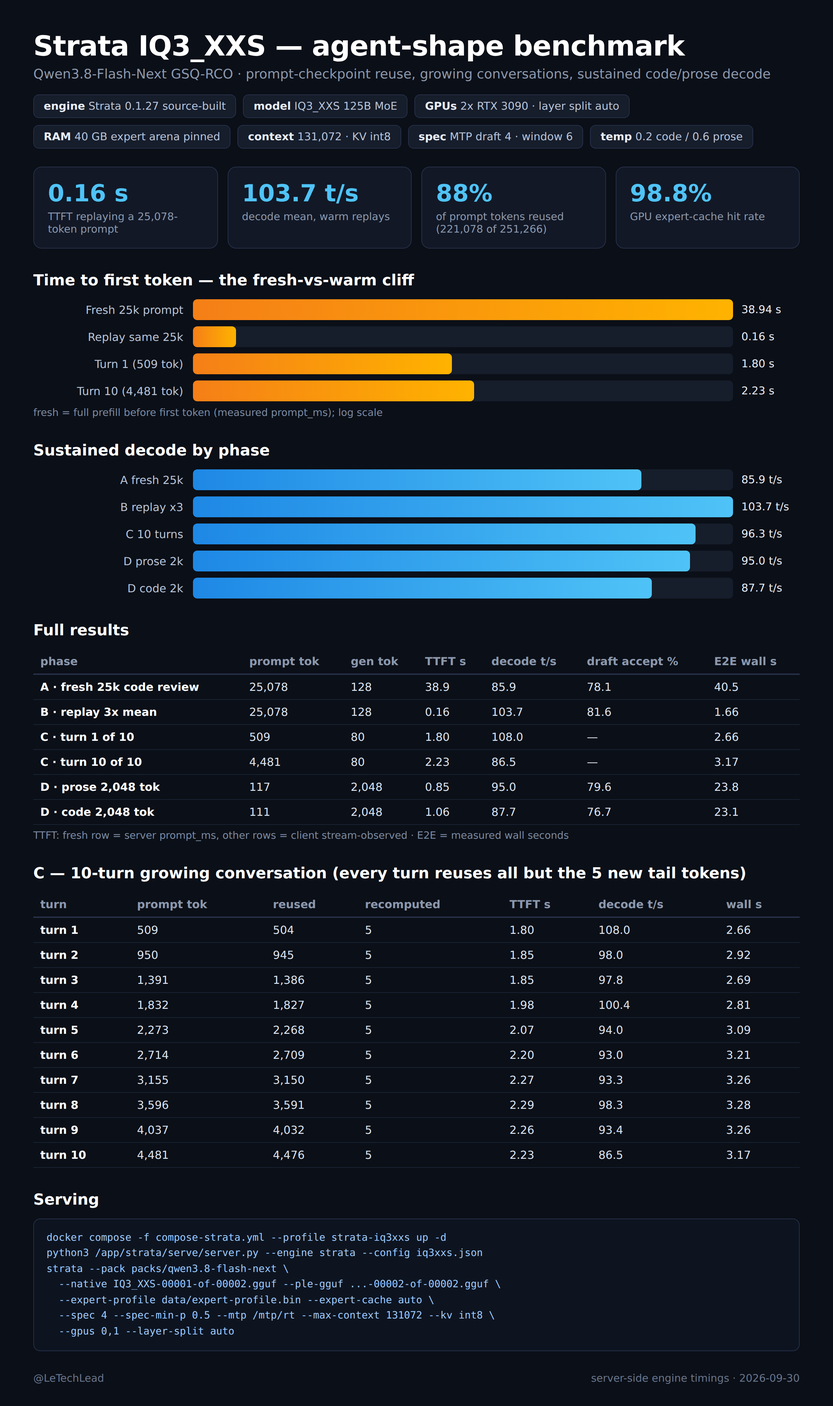
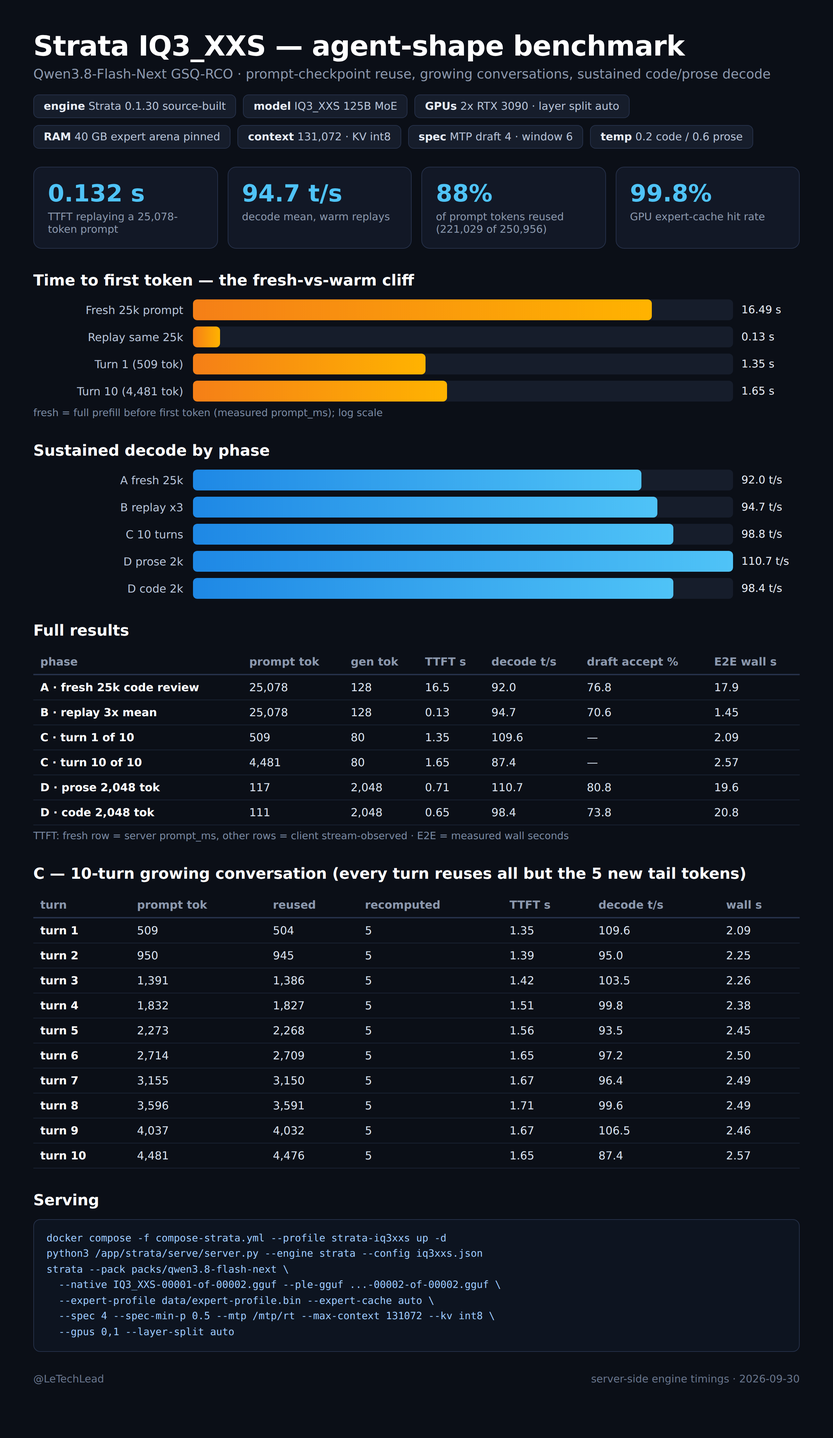
Strata v0.1.30: re-pinned source build, re-measured both benchmarks
- fetch-strata.sh pinned to tag v0.1.30 (commit 30ec18e), sha256 verified
- llama.cpp pin unchanged upstream (3cf03257): pack, config keys, and engine
  flags are identical across 0.1.27 -> 0.1.30, so existing data/ carries over
- context ladder re-measured on v0.1.30 (benchy 0.3.5, pp4096/tg512, 3 runs,
  depths 8192/32768/65536/126208): prefill now rises 1084->1996 t/s with depth
  (was flat ~660 on 0.1.27); TTFT at 126k 65.3 s vs 192.1 s
- agent-shape card regenerated from fresh v0.1.30 run (clean session totals):
  warm-replay TTFT 0.132 s, fresh 25k prefill 16.5 s, expert hit 99.8%
- README: both benchmark sections, hardware floor numbers from live /metrics

Changed region(s): [[0.0312, 0.0311, 0.9375, 0.84], [0.0312, 0.8089, 0.5938, 0.9644]]

diff --git a/benchmark/agent-shape-card.html b/benchmark/agent-shape-card.html
@@ -28,34 +28,34 @@ code{display:block;background:#0d1420;border:1px solid #26314a;border-radius:10p
 </style></head><body><div class="wrap">
 <h1>Strata IQ3_XXS — agent-shape benchmark</h1>
 <div class="sub">Qwen3.8-Flash-Next GSQ-RCO · prompt-checkpoint reuse, growing conversations, sustained code/prose decode</div>
-<div class="chips"><span class="chip"><b>engine</b> Strata 0.1.27 source-built</span><span class="chip"><b>model</b> IQ3_XXS 125B MoE</span><span class="chip"><b>GPUs</b> 2x RTX 3090 · layer split auto</span><span class="chip"><b>RAM</b> 40 GB expert arena pinned</span><span class="chip"><b>context</b> 131,072 · KV int8</span><span class="chip"><b>spec</b> MTP draft 4 · window 6</span><span class="chip"><b>temp</b> 0.2 code / 0.6 prose</span></div>
+<div class="chips"><span class="chip"><b>engine</b> Strata 0.1.30 source-built</span><span class="chip"><b>model</b> IQ3_XXS 125B MoE</span><span class="chip"><b>GPUs</b> 2x RTX 3090 · layer split auto</span><span class="chip"><b>RAM</b> 40 GB expert arena pinned</span><span class="chip"><b>context</b> 131,072 · KV int8</span><span class="chip"><b>spec</b> MTP draft 4 · window 6</span><span class="chip"><b>temp</b> 0.2 code / 0.6 prose</span></div>
 <div class="tiles">
-<div class="tile"><div class="v">0.16 s</div><div class="k">TTFT replaying a 25,078-token prompt</div></div>
-<div class="tile"><div class="v">103.7 t/s</div><div class="k">decode mean, warm replays</div></div>
-<div class="tile"><div class="v">88%</div><div class="k">of prompt tokens reused (221,078 of 251,266)</div></div>
-<div class="tile"><div class="v">98.8%</div><div class="k">GPU expert-cache hit rate</div></div></div>
+<div class="tile"><div class="v">0.132 s</div><div class="k">TTFT replaying a 25,078-token prompt</div></div>
+<div class="tile"><div class="v">94.7 t/s</div><div class="k">decode mean, warm replays</div></div>
+<div class="tile"><div class="v">88%</div><div class="k">of prompt tokens reused (221,029 of 250,956)</div></div>
+<div class="tile"><div class="v">99.8%</div><div class="k">GPU expert-cache hit rate</div></div></div>
 
 <h2>Time to first token — the fresh-vs-warm cliff</h2>
-<div class="hrow"><div class="hlab">Fresh 25k prompt</div><div class="htrack"><div class="hbar t" style="width:100%"></div></div><div class="hval">38.94 s</div></div><div class="hrow"><div class="hlab">Replay same 25k</div><div class="htrack"><div class="hbar t" style="width:8%"></div></div><div class="hval">0.16 s</div></div><div class="hrow"><div class="hlab">Turn 1 (509 tok)</div><div class="htrack"><div class="hbar t" style="width:48%"></div></div><div class="hval">1.80 s</div></div><div class="hrow"><div class="hlab">Turn 10 (4,481 tok)</div><div class="htrack"><div class="hbar t" style="width:52%"></div></div><div class="hval">2.23 s</div></div>
+<div class="hrow"><div class="hlab">Fresh 25k prompt</div><div class="htrack"><div class="hbar t" style="width:85%"></div></div><div class="hval">16.49 s</div></div><div class="hrow"><div class="hlab">Replay same 25k</div><div class="htrack"><div class="hbar t" style="width:5%"></div></div><div class="hval">0.13 s</div></div><div class="hrow"><div class="hlab">Turn 1 (509 tok)</div><div class="htrack"><div class="hbar t" style="width:43%"></div></div><div class="hval">1.35 s</div></div><div class="hrow"><div class="hlab">Turn 10 (4,481 tok)</div><div class="htrack"><div class="hbar t" style="width:47%"></div></div><div class="hval">1.65 s</div></div>
 <div class="note">fresh = full prefill before first token (measured prompt_ms); log scale</div>
 
 <h2>Sustained decode by phase</h2>
-<div class="hrow"><div class="hlab">A fresh 25k</div><div class="htrack"><div class="hbar" style="width:83%"></div></div><div class="hval">85.9 t/s</div></div><div class="hrow"><div class="hlab">B replay x3</div><div class="htrack"><div class="hbar" style="width:100%"></div></div><div class="hval">103.7 t/s</div></div><div class="hrow"><div class="hlab">C 10 turns</div><div class="htrack"><div class="hbar" style="width:93%"></div></div><div class="hval">96.3 t/s</div></div><div class="hrow"><div class="hlab">D prose 2k</div><div class="htrack"><div class="hbar" style="width:92%"></div></div><div class="hval">95.0 t/s</div></div><div class="hrow"><div class="hlab">D code 2k</div><div class="htrack"><div class="hbar" style="width:85%"></div></div><div class="hval">87.7 t/s</div></div>
+<div class="hrow"><div class="hlab">A fresh 25k</div><div class="htrack"><div class="hbar" style="width:83%"></div></div><div class="hval">92.0 t/s</div></div><div class="hrow"><div class="hlab">B replay x3</div><div class="htrack"><div class="hbar" style="width:86%"></div></div><div class="hval">94.7 t/s</div></div><div class="hrow"><div class="hlab">C 10 turns</div><div class="htrack"><div class="hbar" style="width:89%"></div></div><div class="hval">98.8 t/s</div></div><div class="hrow"><div class="hlab">D prose 2k</div><div class="htrack"><div class="hbar" style="width:100%"></div></div><div class="hval">110.7 t/s</div></div><div class="hrow"><div class="hlab">D code 2k</div><div class="htrack"><div class="hbar" style="width:89%"></div></div><div class="hval">98.4 t/s</div></div>
 
 <h2>Full results</h2>
 <table><tr><th>phase</th><th>prompt tok</th><th>gen tok</th><th>TTFT s</th><th>decode t/s</th><th>draft accept %</th><th>E2E wall s</th></tr>
-<tr><td>A · fresh 25k code review</td><td>25,078</td><td>128</td><td>38.9</td><td>85.9</td><td>78.1</td><td>40.5</td></tr>
-<tr><td>B · replay 3x mean</td><td>25,078</td><td>128</td><td>0.16</td><td>103.7</td><td>81.6</td><td>1.66</td></tr>
-<tr><td>C · turn 1 of 10</td><td>509</td><td>80</td><td>1.80</td><td>108.0</td><td>—</td><td>2.66</td></tr>
-<tr><td>C · turn 10 of 10</td><td>4,481</td><td>80</td><td>2.23</td><td>86.5</td><td>—</td><td>3.17</td></tr>
-<tr><td>D · prose 2,048 tok</td><td>117</td><td>2,048</td><td>0.85</td><td>95.0</td><td>79.6</td><td>23.8</td></tr>
-<tr><td>D · code 2,048 tok</td><td>111</td><td>2,048</td><td>1.06</td><td>87.7</td><td>76.7</td><td>23.1</td></tr>
+<tr><td>A · fresh 25k code review</td><td>25,078</td><td>128</td><td>16.5</td><td>92.0</td><td>76.8</td><td>17.9</td></tr>
+<tr><td>B · replay 3x mean</td><td>25,078</td><td>128</td><td>0.13</td><td>94.7</td><td>70.6</td><td>1.45</td></tr>
+<tr><td>C · turn 1 of 10</td><td>509</td><td>80</td><td>1.35</td><td>109.6</td><td>—</td><td>2.09</td></tr>
+<tr><td>C · turn 10 of 10</td><td>4,481</td><td>80</td><td>1.65</td><td>87.4</td><td>—</td><td>2.57</td></tr>
+<tr><td>D · prose 2,048 tok</td><td>117</td><td>2,048</td><td>0.71</td><td>110.7</td><td>80.8</td><td>19.6</td></tr>
+<tr><td>D · code 2,048 tok</td><td>111</td><td>2,048</td><td>0.65</td><td>98.4</td><td>73.8</td><td>20.8</td></tr>
 </table>
 <div class="note">TTFT: fresh row = server prompt_ms, other rows = client stream-observed · E2E = measured wall seconds</div>
 
 <h2>C — 10-turn growing conversation (every turn reuses all but the 5 new tail tokens)</h2>
 <table><tr><th>turn</th><th>prompt tok</th><th>reused</th><th>recomputed</th><th>TTFT s</th><th>decode t/s</th><th>wall s</th></tr>
-<tr><td>turn 1</td><td>509</td><td>504</td><td>5</td><td>1.80</td><td>108.0</td><td>2.66</td></tr><tr><td>turn 2</td><td>950</td><td>945</td><td>5</td><td>1.85</td><td>98.0</td><td>2.92</td></tr><tr><td>turn 3</td><td>1,391</td><td>1,386</td><td>5</td><td>1.85</td><td>97.8</td><td>2.69</td></tr><tr><td>turn 4</td><td>1,832</td><td>1,827</td><td>5</td><td>1.98</td><td>100.4</td><td>2.81</td></tr><tr><td>turn 5</td><td>2,273</td><td>2,268</td><td>5</td><td>2.07</td><td>94.0</td><td>3.09</td></tr><tr><td>turn 6</td><td>2,714</td><td>2,709</td><td>5</td><td>2.20</td><td>93.0</td><td>3.21</td></tr><tr><td>turn 7</td><td>3,155</td><td>3,150</td><td>5</td><td>2.27</td><td>93.3</td><td>3.26</td></tr><tr><td>turn 8</td><td>3,596</td><td>3,591</td><td>5</td><td>2.29</td><td>98.3</td><td>3.28</td></tr><tr><td>turn 9</td><td>4,037</td><td>4,032</td><td>5</td><td>2.26</td><td>93.4</td><td>3.26</td></tr><tr><td>turn 10</td><td>4,481</td><td>4,476</td><td>5</td><td>2.23</td><td>86.5</td><td>3.17</td></tr></table>
+<tr><td>turn 1</td><td>509</td><td>504</td><td>5</td><td>1.35</td><td>109.6</td><td>2.09</td></tr><tr><td>turn 2</td><td>950</td><td>945</td><td>5</td><td>1.39</td><td>95.0</td><td>2.25</td></tr><tr><td>turn 3</td><td>1,391</td><td>1,386</td><td>5</td><td>1.42</td><td>103.5</td><td>2.26</td></tr><tr><td>turn 4</td><td>1,832</td><td>1,827</td><td>5</td><td>1.51</td><td>99.8</td><td>2.38</td></tr><tr><td>turn 5</td><td>2,273</td><td>2,268</td><td>5</td><td>1.56</td><td>93.5</td><td>2.45</td></tr><tr><td>turn 6</td><td>2,714</td><td>2,709</td><td>5</td><td>1.65</td><td>97.2</td><td>2.50</td></tr><tr><td>turn 7</td><td>3,155</td><td>3,150</td><td>5</td><td>1.67</td><td>96.4</td><td>2.49</td></tr><tr><td>turn 8</td><td>3,596</td><td>3,591</td><td>5</td><td>1.71</td><td>99.6</td><td>2.49</td></tr><tr><td>turn 9</td><td>4,037</td><td>4,032</td><td>5</td><td>1.67</td><td>106.5</td><td>2.46</td></tr><tr><td>turn 10</td><td>4,481</td><td>4,476</td><td>5</td><td>1.65</td><td>87.4</td><td>2.57</td></tr></table>
 
 <h2>Serving</h2>
 <code>docker compose -f compose-strata.yml --profile strata-iq3xxs up -d

diff --git a/benchmark/context-ladder-card.html b/benchmark/context-ladder-card.html
@@ -1,0 +1,65 @@
+<!doctype html><html><head><meta charset="utf-8"><style>
+*{margin:0;padding:0;box-sizing:border-box;font-family:'Segoe UI',system-ui,sans-serif}
+body{width:1200px;background:#0b0f17;color:#e8edf6}
+.wrap{padding:44px 48px 36px}
+h1{font-size:40px;font-weight:800;letter-spacing:-.5px;color:#fff}
+.sub{font-size:19px;color:#8b98ad;margin-top:6px}
+.chips{display:flex;flex-wrap:wrap;gap:10px;margin-top:18px}
+.chip{font-size:15.5px;padding:7px 14px;border-radius:8px;background:#161d2b;border:1px solid #26314a;color:#b8c4d9}
+.chip b{color:#e8edf6;font-weight:600}
+.tiles{display:flex;gap:14px;margin-top:26px}
+.tile{flex:1;background:#121826;border:1px solid #26314a;border-radius:12px;padding:18px 20px}
+.tile .v{font-size:34px;font-weight:800;color:#4fc3f7}
+.tile .k{font-size:15px;color:#8b98ad;margin-top:4px}
+h2{font-size:22px;color:#fff;margin:34px 0 14px;font-weight:700}
+.hrow{display:flex;align-items:center;margin:9px 0}
+.hlab{width:230px;font-size:16px;color:#b8c4d9;text-align:right;padding-right:14px}
+.htrack{flex:1;background:#161d2b;border-radius:6px;height:30px;position:relative;overflow:hidden}
+.hbar{height:100%;border-radius:6px;background:linear-gradient(90deg,#1e88e5,#4fc3f7)}
+.hbar.t{background:linear-gradient(90deg,#f57f17,#ffb300)}
+.hval{width:96px;flex:none;text-align:left;font-size:15.5px;color:#e8edf6;padding-left:12px;line-height:30px}
+table{width:100%;border-collapse:collapse;margin-top:10px;font-size:16px}
+th{text-align:left;color:#8b98ad;font-weight:600;padding:8px 10px;border-bottom:2px solid #26314a}
+td{padding:8px 10px;border-bottom:1px solid #1a2334;color:#dbe3f0}
+td:first-child{color:#fff;font-weight:600}
+code{display:block;background:#0d1420;border:1px solid #26314a;border-radius:10px;padding:16px 18px;font:14.5px/1.55 Consolas,monospace;color:#9ecbff;white-space:pre;overflow-x:auto}
+.foot{margin-top:30px;font-size:15px;color:#68758c;display:flex;justify-content:space-between}
+.note{font-size:14.5px;color:#7a8aa3;margin-top:8px}
+</style></head><body><div class="wrap">
+<h1>Qwen3.8-Flash-Next IQ3_XXS — context ladder</h1>
+<div class="sub">llama-benchy · pp 4,096 / tg 512 · 3 runs per depth · unique requests, cache off</div>
+<div class="chips"><span class="chip"><b>engine</b> Strata 0.1.30</span><span class="chip"><b>model</b> Qwen3.8-Flash-Next GSQ-RCO IQ3_XXS · 125B MoE</span><span class="chip"><b>GPUs</b> 2x RTX 3090 · layer split auto</span><span class="chip"><b>context</b> 131,072</span><span class="chip"><b>KV</b> int8</span><span class="chip"><b>spec</b> MTP draft 4 · min-p 0.5</span><span class="chip"><b>tokenizer</b> Qwen3.8-Flash-Next</span></div>
+<div class="tiles">
+<div class="tile"><div class="v" style="font-size:29px">1084→1996 t/s</div><div class="k">prefill rate, 8,192–126,208 tok</div></div>
+<div class="tile"><div class="v">+84.2%</div><div class="k">prefill change across the full 15x depth range</div></div>
+<div class="tile"><div class="v">97.7 t/s</div><div class="k">decode at 8,192 tok depth</div></div>
+<div class="tile"><div class="v">86.1 t/s</div><div class="k">decode at 126,208 tok depth</div></div></div>
+
+<h2>Prefill — prompt-processing rate by depth</h2>
+<div class="hrow"><div class="hlab">8,192 tok</div><div class="htrack"><div class="hbar" style="width:54.3%"></div></div><div class="hval">1084 t/s</div></div><div class="hrow"><div class="hlab">32,768 tok</div><div class="htrack"><div class="hbar" style="width:82.3%"></div></div><div class="hval">1643 t/s</div></div><div class="hrow"><div class="hlab">65,536 tok</div><div class="htrack"><div class="hbar" style="width:95.6%"></div></div><div class="hval">1909 t/s</div></div><div class="hrow"><div class="hlab">126,208 tok</div><div class="htrack"><div class="hbar" style="width:100.0%"></div></div><div class="hval">1996 t/s</div></div>
+<div class="note">prefill rate = (depth + 4,096) ÷ total prefill time — all context present at first token</div>
+
+<h2>Decode — generation rate by depth</h2>
+<div class="hrow"><div class="hlab">8,192 tok</div><div class="htrack"><div class="hbar t" style="width:100.0%"></div></div><div class="hval">97.7 t/s</div></div><div class="hrow"><div class="hlab">32,768 tok</div><div class="htrack"><div class="hbar t" style="width:99.2%"></div></div><div class="hval">96.9 t/s</div></div><div class="hrow"><div class="hlab">65,536 tok</div><div class="htrack"><div class="hbar t" style="width:94.2%"></div></div><div class="hval">92.0 t/s</div></div><div class="hrow"><div class="hlab">126,208 tok</div><div class="htrack"><div class="hbar t" style="width:88.2%"></div></div><div class="hval">86.1 t/s</div></div>
+<div class="note">mean of 3 runs · tg 512 tokens per run</div>
+
+<h2>Full results</h2>
+<table><tr><th>depth (tok)</th><th>prefill t/s</th><th>decode t/s</th><th>peak decode t/s</th><th>TTFT (s)</th><th>E2E (s)</th></tr>
+<tr><td>8,192</td><td>1084 ± 13</td><td>97.7 ± 6.7</td><td>133.7 ± 10.5</td><td>11.34</td><td>16.58</td></tr><tr><td>32,768</td><td>1643 ± 10</td><td>96.9 ± 2.5</td><td>118.3 ± 12.3</td><td>22.44</td><td>27.72</td></tr><tr><td>65,536</td><td>1909 ± 5</td><td>92.0 ± 2.2</td><td>113.7 ± 3.8</td><td>36.47</td><td>42.04</td></tr><tr><td>126,208</td><td>1996 ± 6</td><td>86.1 ± 4.0</td><td>108.0 ± 2.8</td><td>65.28</td><td>71.23</td></tr></table>
+<div class="note">TTFT = full prefill wall time · E2E = TTFT + 512 ÷ decode rate (derived)</div>
+
+<h2>Serving &amp; run</h2>
+<code>strata:0.1.30 · server.py --engine strata --config iq3xxs.json
+strata --pack packs/qwen3.8-flash-next \
+  --native Qwen3.8-Flash-Next-GSQ-RCO-IQ3_XXS-00001-of-00002.gguf \
+  --ple-gguf Qwen3.8-Flash-Next-GSQ-RCO-IQ3_XXS-00002-of-00002.gguf \
+  --expert-profile expert-profile.bin --expert-cache auto --prefill auto \
+  --spec 4 --spec-min-p 0.5 --mtp /mtp/rt \
+  --max-context 131072 --kv int8 --gpu 0,1 --layer-split auto
+
+llama-benchy --base-url &lt;endpoint&gt;/v1 --model qwen3.8-flash-next-iq3xxs \
+  --tokenizer Qwen/Qwen3.8-Flash-Next \
+  --pp 4096 --tg 512 --depth 8192 32768 65536 126208 \
+  --runs 3 --no-cache --skip-coherence</code>
+<div class="foot"><span>@LeTechLead</span><span>llama-benchy 0.3.5 · 3 runs per depth · 2026-09-30</span></div>
+</div></body></html>

diff --git a/README.md b/README.md
@@ -1,6 +1,6 @@
 # Strata running Qwen3.8-Flash-Next IQ3_XXS on 2x RTX 3090 — a containerized recipe
 
-Runs [Strata](https://github.com/Niko1221/Strata) (v0.1.27, MIT) on the 125B MoE
+Runs [Strata](https://github.com/Niko1221/Strata) (v0.1.30, MIT) on the 125B MoE
 `Qwen3.8-Flash-Next-GSQ-RCO-IQ3_XXS` GGUFs from [ISTA-DASLab](https://huggingface.co/ISTA-DASLab/Qwen3.8-Flash-Next-GSQ-RCO-GGUF)
 without ever executing Strata's own installer on your host: the engine is compiled inside Docker from
 the checksum-pinned upstream tag, the model files are fetched with sha256 verification, and the runtime
@@ -20,7 +20,7 @@ source, pack the GGUFs, launch the same two processes — and gives it an image 
   (speculative decode), two-card layer split with a VRAM expert cache, 131,072-token context.
 
 ## Hardware floor (measured, this exact config)
-- 2x RTX 3090 (48 GB VRAM): engine loads dense weights + KV + a 10,860-slot expert cache ≈ 15.8 GB across the pair; VRAM runs near-full (keep your other GPU services off).
+- 2x RTX 3090 (48 GB VRAM): engine loads dense weights + KV + a 21,793-slot expert cache ≈ 35 GiB across the pair; VRAM runs near-full (~0.5 GB free — keep your other GPU services off).
 - ~62 GB system RAM: the 512-expert MoE arena (~40 GB) is pinned; the 28.8 GB n-gram table streams from SSD. With a serving stack resident, budget nothing else: it fits only when the box is mostly free (Strata's own docs call IQ3_XXS a "64 GB PC" size).
 - ~80 GB free disk for shards + pack + MTP (shard 2 is shared across all GSQ-RCO sizes — link it, don't refetch).
 - NVIDIA driver ≥ 580 (CUDA 13 runtime).
@@ -28,8 +28,8 @@ source, pack the GGUFs, launch the same two processes — and gives it an image 
 ## Steps
 ```bash
 # 0. build the engine image (fetches llama.cpp 3cf03257, verifies sha256)
-./scripts/fetch-strata.sh                       # repo @ tag v0.1.27 -> ./strata-src/
-docker build -t strata:0.1.27 .                 # ~15 min on a 12-core box
+./scripts/fetch-strata.sh                       # repo @ tag v0.1.30 -> ./strata-src/
+docker build -t strata:0.1.30 .                 # ~15 min on a 12-core box
 
 # 1. model weights (resumable, sha256-verified against HuggingFace LFS oids)
 ./scripts/fetch-model.sh ./models
@@ -45,24 +45,45 @@ docker compose up -d                               # healthcheck on /health
 Clients (any OpenAI SDK): base URL `http://<host>:8080/v1`, model name `qwen3.8-flash-next-iq3xxs`.
 Anthropic-style clients: `http://<host>:8080/v1/messages`.
 
-## Benchmark: agent-shape results (`benchmark/`)
+## Benchmark 1: context ladder (`benchmark/context-ladder.png`)
+
+llama-benchy 0.3.5 · pp 4,096 / tg 512 · 3 runs per depth · unique requests (`--no-cache`) ·
+depths 8,192 / 32,768 / 65,536 / 126,208 (near-max: 131,072 − 4,096 − 512 − margin) ·
+tokenizer `Qwen/Qwen3.8-Flash-Next` · prefill rate = (depth + 4,096) ÷ full-prefill wall time.
+
+| depth | prefill t/s | decode t/s | peak decode | TTFT | E2E (est.) |
+|---|---|---|---|---|---|
+| 8,192 | 1,084 ± 13 | 97.7 ± 6.7 | 133.7 | 11.34 s | 16.58 s |
+| 32,768 | 1,643 ± 10 | 96.9 ± 2.5 | 118.3 | 22.44 s | 27.72 s |
+| 65,536 | 1,909 ± 5 | 92.0 ± 2.2 | 113.7 | 36.47 s | 42.04 s |
+| 126,208 | 1,996 ± 6 | 86.1 ± 4.0 | 108.0 | 65.28 s | 71.23 s |
+
+Raw benchy tables for both engine versions measured on this box:
+`context-ladder-0.1.30.md` (above) and `context-ladder-0.1.27.md` — identical protocol, same pack.
+0.1.27 was flat ~660–678 t/s at every depth; 0.1.30's 1024-token expert-streaming prefill made deep
+prefill 2.4–3x faster (TTFT at 126k: 192 s → 65 s) and decode +2–10%. If you are upgrading from a
+0.1.27 pack: the pack format (`native experts v3`), the serve config keys, and the engine flags below
+are unchanged — rebuild the image, reuse `data/`.
+
+## Benchmark 2: agent-shape results (`benchmark/`)
 
 ![Strata IQ3_XXS agent-shape benchmark — TTFT cliff, decode by phase, full results table](benchmark/strata-agentbench.png)
 
 `agent-shape-card.html` is the editable source of the PNG above; raw per-request JSON is the artifact behind it.
-Measured on server-side engine timings (not client estimates), the numbers that matter for coding agents:
+Measured on v0.1.30 with server-side engine timings (not client estimates), the numbers that matter for coding agents:
 
 | scenario | result |
 |---|---|
-| cold 25,078-token prompt prefill | 38.9 s (~644 t/s) — falls hard with depth |
-| same prompt replayed (checkpoint warm) | **0.16 s TTFT** — only 5 new tokens recompute |
-| warm decode | 100-107 t/s; cold-window decode 85-96 t/s |
-| MTP accept | prose 79.6% / code 76.7% (drafts up to 4) |
-| 10-turn growing conversation | every turn reused all-but-5 tokens; TTFT 1.8→2.2 s |
-| session-wide | 88% of prompt tokens reused; expert-cache hit 98.8% |
+| cold 25,078-token prompt prefill | 16.5 s (~1,521 t/s) |
+| same prompt replayed (checkpoint warm) | **0.13 s TTFT** — only 5 new tokens recompute |
+| warm decode | 94–99 t/s; sustained prose up to 110.7 t/s |
+| MTP accept | prose 80.8% / code 73.8% (drafts up to 4) |
+| 10-turn growing conversation | every turn reused all-but-5 tokens; TTFT 1.35→1.65 s |
+| session-wide | 88% of prompt tokens reused; expert-cache hit 99.8% |
 
-The cliff is real: first turn on a new 25k context costs ~40 s; every turn that keeps its prefix costs
-~0.16 s. Agents that reuse sessions feel this engine; agents that re-dump context pay for it every time.
+The cliff is still real but much shallower than v0.1.27: first turn on a new 25k context costs ~17 s
+(was ~40 s); every turn that keeps its prefix costs ~0.13 s. Agents that reuse sessions feel this
+engine; agents that re-dump context pay for it every time.
 
 ## Honest caveats (from reading the source, not the marketing)
 - **Self-update by design:** with network access, `setup.py` re-downloads the release binary at every
@@ -71,29 +92,29 @@ The cliff is real: first turn on a new 25k context costs ~40 s; every turn that 
 - **No checksums on model downloads** in their installer; `fetch-model.sh` adds verification against HF's
   published LFS sha256s.
 - **Single sequence at a time** (FIFO). Parallel sub-agents queue, including against chat use.
-- **Pinned arena = one big load-time stall:** first load locks ~40 GB into RAM and the machine can be
-  unresponsive 1-3 minutes (theirs, not ours — the card's run survived it fine).
+- **Pinned arena = one big load-time stall:** first load locks ~40 GB into RAM (~17 s at 3.9 GiB/s;
+  theirs, not ours — the runs survived it fine).
 - IQ3_XXS at 262k context is **not** supported by this config (their own installer caps < 90 GB boxes at 128k;
   deep-context prefill gets slower still and the KV is int8 here).
-- The engine is 6 days old as of writing and essentially one maintainer plus PRs. The MIT license and the
+- The engine is one week old as of writing and essentially one maintainer plus PRs. The MIT license and the
   audited code are what make a pinned fork-in-a-container sane; none of it makes it a drop-in for vLLM.
 
 ## Layout
 ```
 Dockerfile                     two-stage build (devel->compile -> runtime)
-scripts/fetch-strata.sh        pinned repo tarball (tag v0.1.27) + sha256
+scripts/fetch-strata.sh        pinned repo tarball (tag v0.1.30) + sha256
 scripts/fetch-model.sh         IQ3_XXS shards + sha256 (shard 2 dedupe documented inline)
 scripts/prepare-data.sh        pack + tokenizer + MTP range-fetch/pack/rt (inside the image)
 config/iq3xxs.json.example     server.py config (exe/args/gpu list = layer split)
 docker-compose.yml             service definition, no egress at runtime
-benchmark/                     agent-shape card PNG + source + raw results
+benchmark/                     both cards (PNG + HTML source) + raw artifacts
 NOTICE / LICENSE               provenance
 ```
 `strata-src/`, `models/`, `data/`, `config/iq3xxs.json` are gitignored — everything is reproducible via the scripts.
 
 ## Provenance / licenses
-- Strata engine + server: © Niko1221 and contributors, MIT — https://github.com/Niko1221/Strata @ `v0.1.27` (commit `a790805`).
-- llama.cpp (ggml/gguf-py/mtmd) pinned at `3cf03257f219`, MIT.
+- Strata engine + server: © Niko1221 and contributors, MIT — https://github.com/Niko1221/Strata @ `v0.1.30` (commit `30ec18e`).
+- llama.cpp (ggml/gguf-py/mtmd) pinned at `3cf03257f219`, MIT (unchanged by Strata v0.1.28–v0.1.30).
 - Model weights: Qwen team + GSQ-RCO quants by ISTA-DASLab — see the HF repo's terms; you fetch them yourself.
 - Scripts/Dockerfile/README in this repo: MIT.
 

diff --git a/benchmark/context-ladder-0.1.27.md b/benchmark/context-ladder-0.1.27.md
@@ -1,0 +1,10 @@
+| model                     |             test |                  t/s |      peak t/s |      ttfr (ms) |   est_ppt (ms) |      e2e_ttft (ms) |
+|:--------------------------|-----------------:|---------------------:|--------------:|---------------:|---------------:|-------------------:|
+| qwen3.8-flash-next-iq3xxs |   pp4096 @ d8192 | 320239.07 ± 12212.60 |               |   39.27 ± 1.48 |   38.43 ± 1.48 |  18639.82 ± 267.50 |
+| qwen3.8-flash-next-iq3xxs |    tg512 @ d8192 |         93.00 ± 6.56 | 116.33 ± 8.22 |                |                |                    |
+| qwen3.8-flash-next-iq3xxs |  pp4096 @ d32768 |  352349.23 ± 2374.08 |               |  105.47 ± 0.71 |  104.63 ± 0.71 |  55209.27 ± 154.67 |
+| qwen3.8-flash-next-iq3xxs |   tg512 @ d32768 |         87.58 ± 2.26 | 108.00 ± 4.08 |                |                |                    |
+| qwen3.8-flash-next-iq3xxs |  pp4096 @ d65536 |  363983.30 ± 4366.21 |               |  192.17 ± 2.28 |  191.34 ± 2.28 |  102957.89 ± 16.19 |
+| qwen3.8-flash-next-iq3xxs |   tg512 @ d65536 |         89.82 ± 3.75 | 106.67 ± 1.89 |                |                |                    |
+| qwen3.8-flash-next-iq3xxs | pp4096 @ d126208 | 359427.14 ± 12297.11 |               | 363.81 ± 12.73 | 362.97 ± 12.73 | 192139.38 ± 180.39 |
+| qwen3.8-flash-next-iq3xxs |  tg512 @ d126208 |         83.88 ± 1.03 | 107.00 ± 3.74 |                |                |                    |

diff --git a/benchmark/context-ladder-0.1.30.md b/benchmark/context-ladder-0.1.30.md
@@ -1,0 +1,10 @@
+| model                     |             test |                  t/s |       peak t/s |     ttfr (ms) |   est_ppt (ms) |     e2e_ttft (ms) |
+|:--------------------------|-----------------:|---------------------:|---------------:|--------------:|---------------:|------------------:|
+| qwen3.8-flash-next-iq3xxs |   pp4096 @ d8192 | 323314.80 ± 10271.49 |                |  38.85 ± 1.22 |   38.05 ± 1.22 | 11340.32 ± 140.80 |
+| qwen3.8-flash-next-iq3xxs |    tg512 @ d8192 |         97.65 ± 6.74 | 133.67 ± 10.50 |               |                |                   |
+| qwen3.8-flash-next-iq3xxs |  pp4096 @ d32768 |  353472.57 ± 6745.81 |                | 105.13 ± 2.02 |  104.33 ± 2.02 | 22437.58 ± 131.27 |
+| qwen3.8-flash-next-iq3xxs |   tg512 @ d32768 |         96.86 ± 2.55 | 118.33 ± 12.28 |               |                |                   |
+| qwen3.8-flash-next-iq3xxs |  pp4096 @ d65536 |  364876.37 ± 1480.06 |                | 191.64 ± 0.78 |  190.84 ± 0.78 |  36472.77 ± 98.33 |
+| qwen3.8-flash-next-iq3xxs |   tg512 @ d65536 |         91.96 ± 2.21 |  113.67 ± 3.77 |               |                |                   |
+| qwen3.8-flash-next-iq3xxs | pp4096 @ d126208 |  367400.67 ± 2922.08 |                | 355.49 ± 2.83 |  354.69 ± 2.83 | 65278.95 ± 185.42 |
+| qwen3.8-flash-next-iq3xxs |  tg512 @ d126208 |         86.09 ± 3.95 |  108.00 ± 2.83 |               |                |                   |
